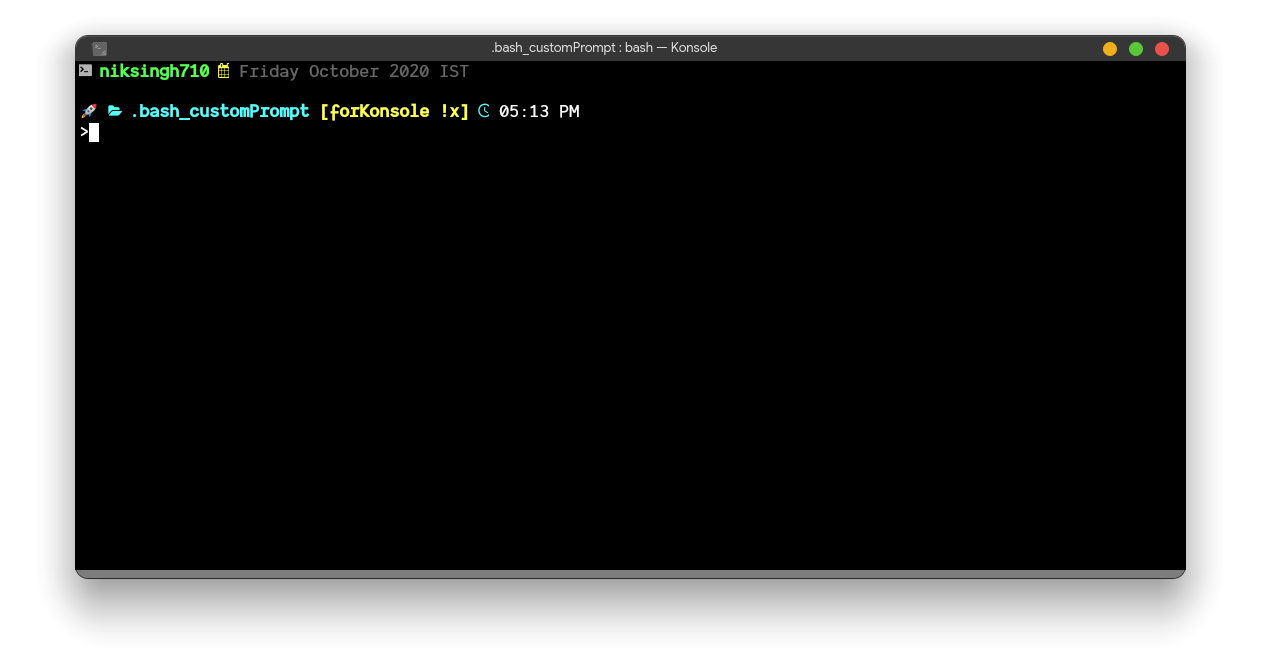
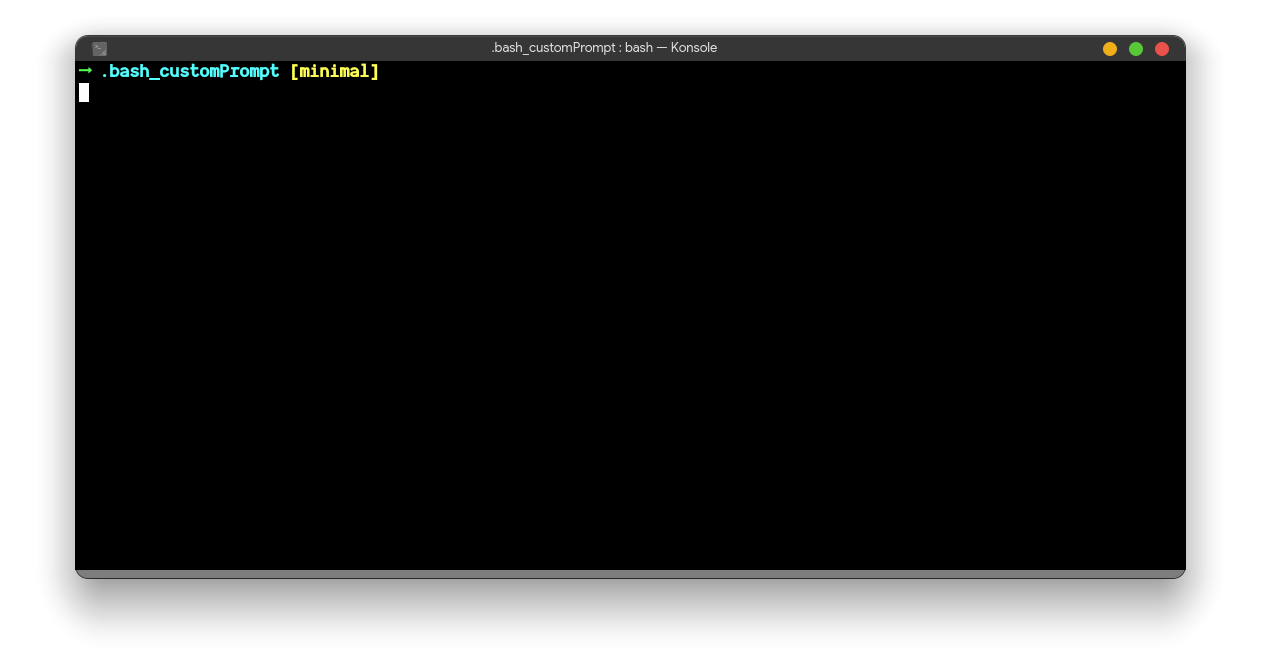
Minimal added
updated images

Changed region(s): [[0.0619, 0.0904, 0.4639, 0.2108]]

diff --git a/README.md b/README.md
@@ -13,9 +13,9 @@ My favourite is this one Minimal No extra Stuff Git status is there full focus o
 
 # Images
 
-![Image 1](https://github.com/niksingh710/bash_Prompt/blob/forKonsole/assets/images/1.png?raw=true)
+![Image 1](https://github.com/niksingh710/bash_Prompt/blob/minimal/assets/images/1.png?raw=true)
 
-![Image 1](https://github.com/niksingh710/bash_Prompt/blob/forKonsole/assets/images/2.png?raw=true)
+![Image 1](https://github.com/niksingh710/bash_Prompt/blob/minimal/assets/images/2.png?raw=true)
 
 # Requirements
 
